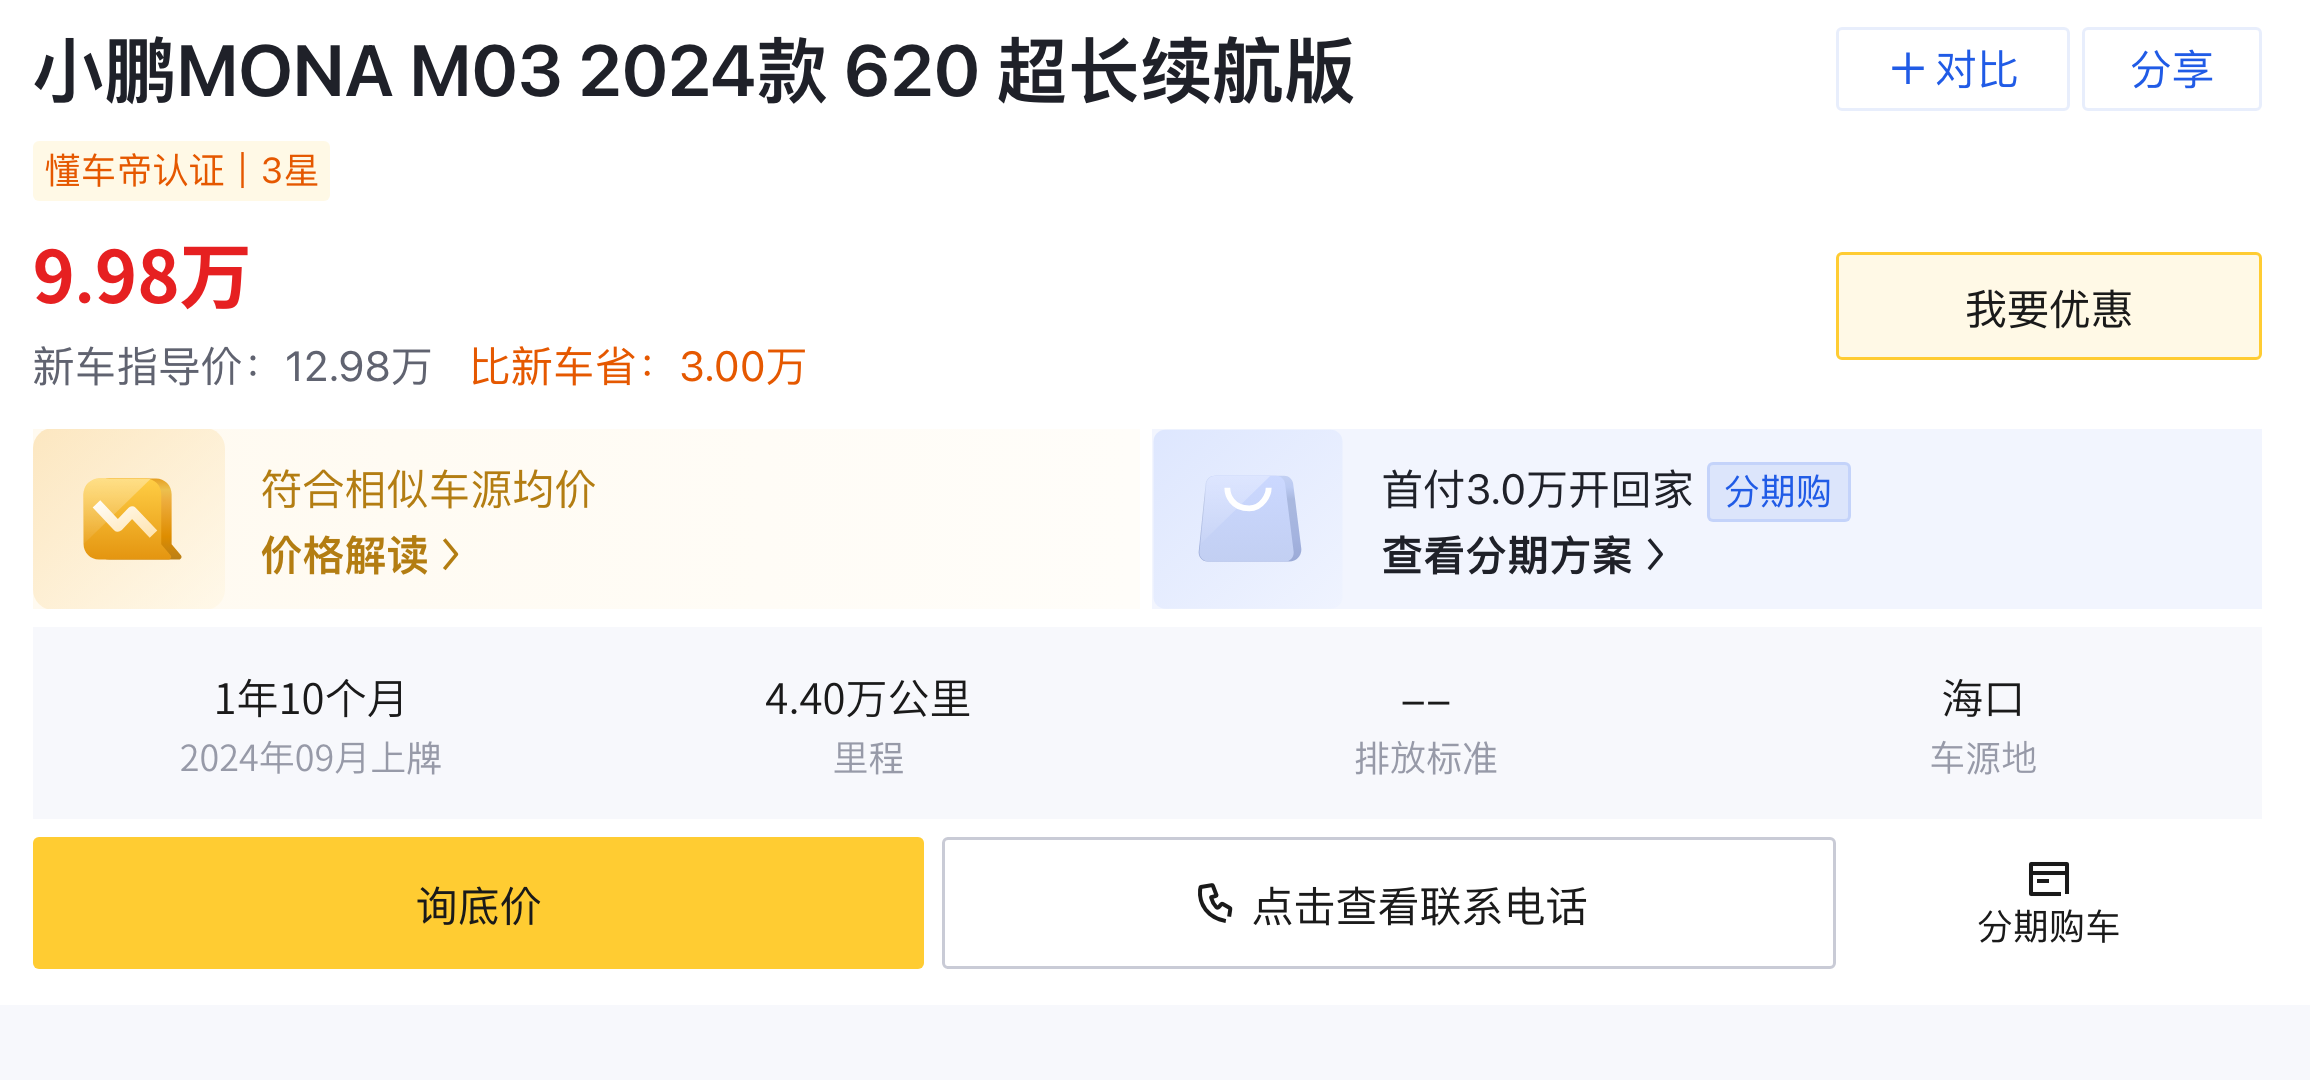
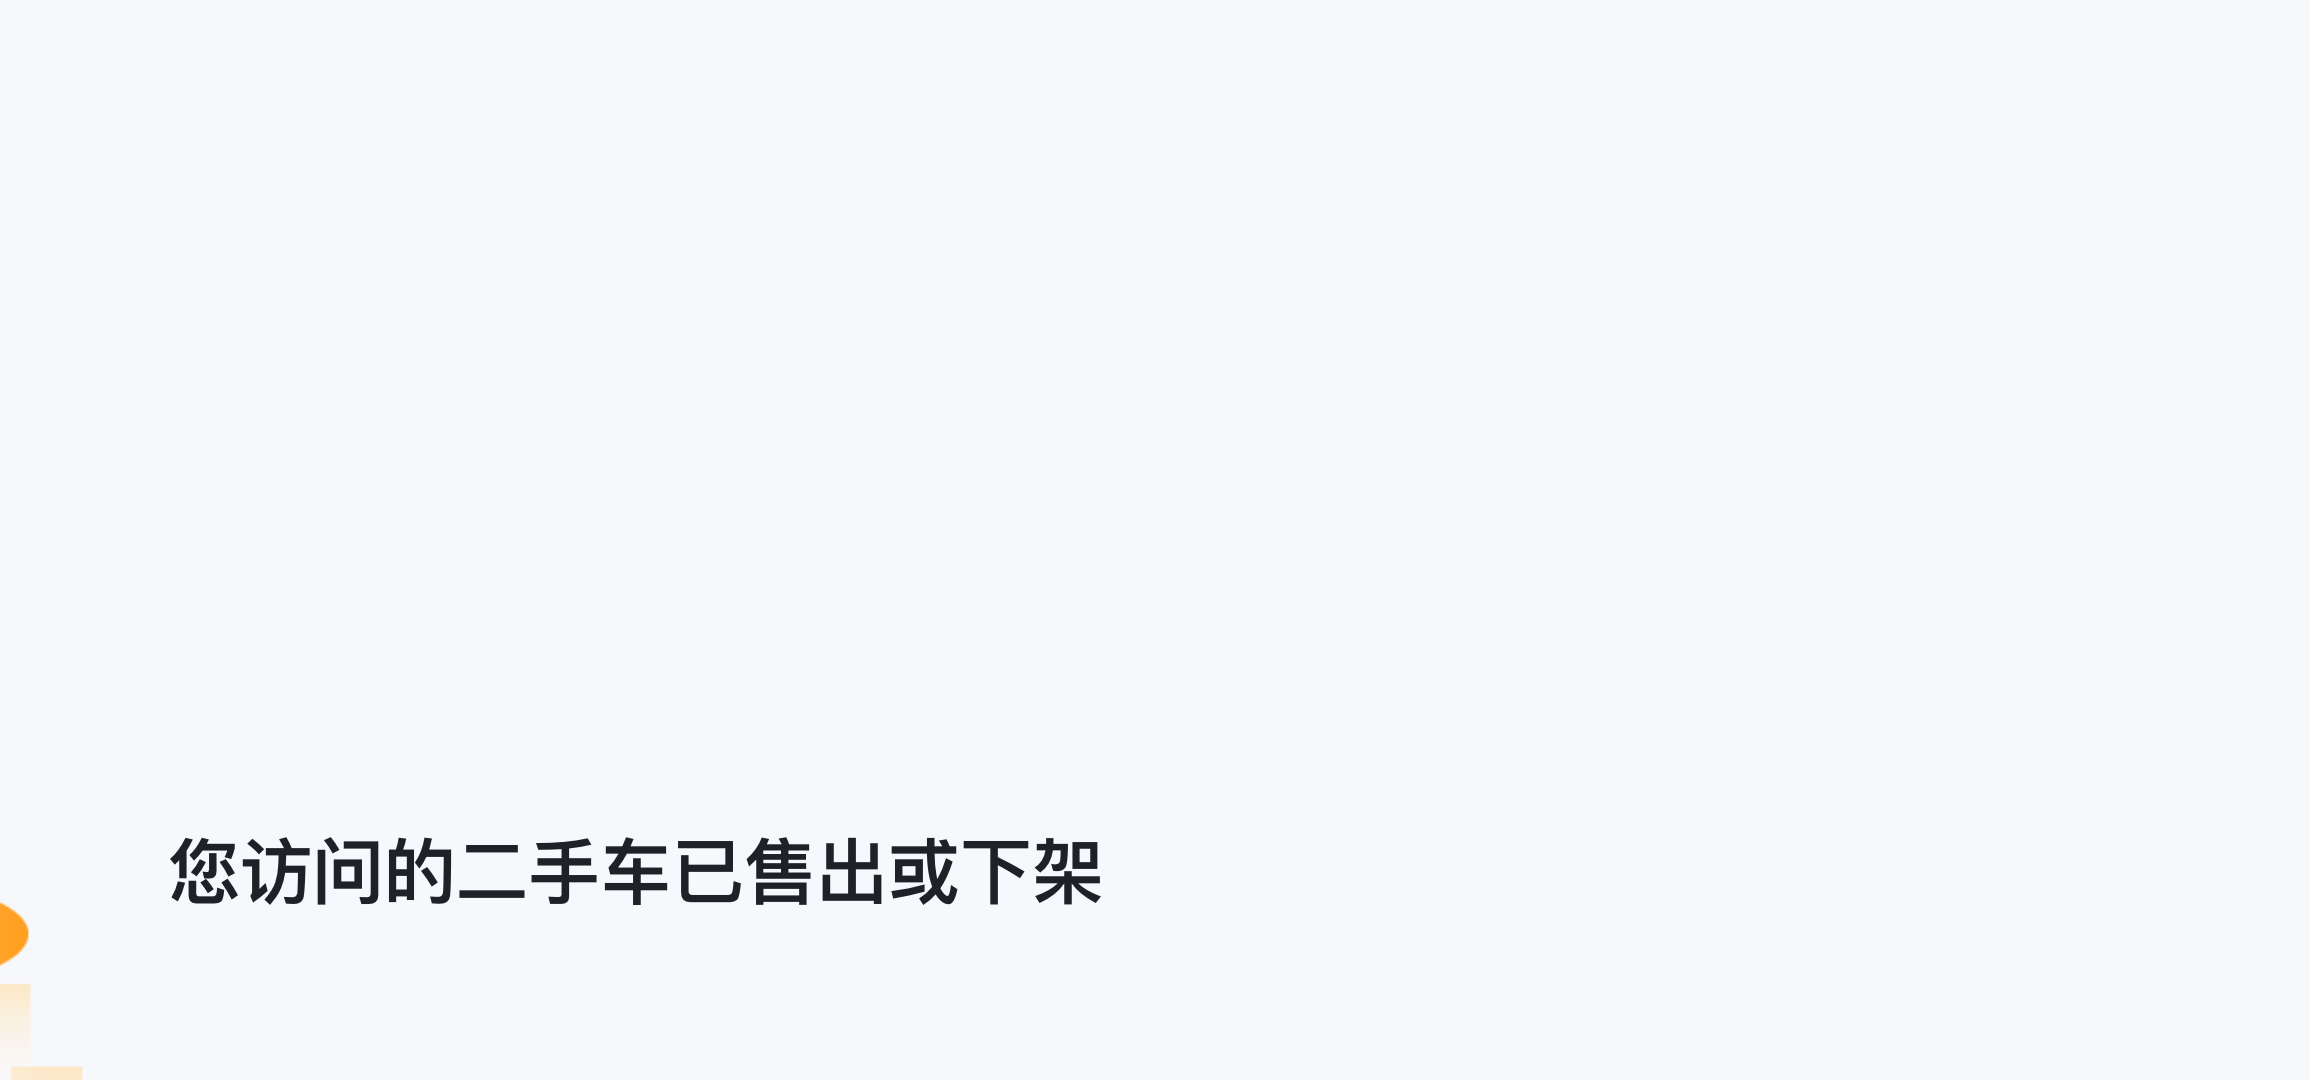
feat: 瓜子数据功能搞定一版

diff --git a/src/modules/crawler/adapters/guazi.adapter.ts b/src/modules/crawler/adapters/guazi.adapter.ts
@@ -1,22 +1,168 @@
-import { Injectable } from '@nestjs/common';
+import { Injectable, Logger } from '@nestjs/common';
+import * as fs from 'node:fs';
+import * as path from 'node:path';
+import { chromium, type BrowserContextOptions, type Page } from 'playwright';
 import { RawListing } from '../../../common/types/listing.types';
 import { CrawlerAdapter } from './crawler-adapter';
 
 @Injectable()
 export class GuaziAdapter implements CrawlerAdapter {
   readonly platform = '瓜子';
+  private readonly logger = new Logger(GuaziAdapter.name);
+  private readonly listUrl = 'https://www.guazi.com/sh/xpqc/xiaopengmona_m03/';
+  private readonly statePath = path.join(process.cwd(), 'state', 'guazi.json');
 
   async crawl(): Promise<RawListing[]> {
-    return [
-      {
-        platform: this.platform,
-        model: '小鹏 M03 620 Max',
-        priceWan: 10.2,
-        sourceLocation: '海口',
-        mileageKm: 12000,
-        registerDate: '2024-08',
-        hasMajorAccident: false,
-      },
-    ];
+    let browser: Awaited<ReturnType<typeof chromium.launch>> | null = null;
+    try {
+      browser = await chromium.launch({ headless: true });
+      const contextOptions: BrowserContextOptions = {
+        viewport: { width: 1920, height: 1080 },
+        userAgent:
+          'Mozilla/5.0 (Macintosh; Intel Mac OS X 10_15_7) AppleWebKit/537.36 (KHTML, like Gecko) Chrome/126.0.0.0 Safari/537.36',
+      };
+
+      if (fs.existsSync(this.statePath)) {
+        contextOptions.storageState = this.statePath;
+      } else {
+        this.logger.warn(`Guazi login state file not found at ${this.statePath}. Run login bootstrap if needed.`);
+      }
+
+      const context = await browser.newContext(contextOptions);
+      const page = await context.newPage();
+      await page.goto(this.listUrl, { waitUntil: 'domcontentloaded', timeout: 60000 });
+      await page.waitForTimeout(2500);
+
+      if (await this.requiresManualVerification(page)) {
+        this.logger.warn('Guazi login/captcha detected, skip this platform in current run.');
+        return [];
+      }
+
+      const items = await page.$$eval('.car-list-box .car-box .car-item', (nodes) =>
+        nodes.map((node) => {
+          const anchor = node.querySelector<HTMLAnchorElement>('a.car-item-img');
+          const title = node.querySelector('.car-item-info-title')?.textContent?.trim() ?? '';
+          const desc = node.querySelector('.car-item-info-desc')?.textContent?.trim() ?? '';
+          const price =
+            node.querySelector('.car-item-info-price-value')?.textContent?.trim() ??
+            node.querySelector('.car-item-info-price-now')?.textContent?.trim() ??
+            '';
+          const tags = Array.from(node.querySelectorAll('.car-item-info-tag span'))
+            .map((el) => el.textContent?.trim() ?? '')
+            .filter(Boolean);
+
+          return {
+            title,
+            desc,
+            price,
+            tags,
+            href: anchor?.getAttribute('href') ?? '',
+          };
+        }),
+      );
+
+      const listings = items
+        .map((item) => this.toRawListing(item))
+        .filter((item): item is RawListing => Boolean(item));
+
+      this.logger.log(`Guazi parsed ${listings.length} listings from list page.`);
+      return listings;
+    } catch (error) {
+      this.logger.warn(`Guazi crawl failed and will be skipped: ${String(error)}`);
+      return [];
+    } finally {
+      if (browser) {
+        await browser.close().catch(() => undefined);
+      }
+    }
+  }
+
+  private async requiresManualVerification(page: Page): Promise<boolean> {
+    const html = await page.content();
+    const lower = html.toLowerCase();
+    const keywordHit = ''
+      // lower.includes('验证码') 
+      // ||
+      // lower.includes('captcha') ||
+      // lower.includes('滑块') ||
+      // lower.includes('请先登录');
+    if (keywordHit) return true;
+
+    const loginButtonVisible = await page
+      .locator('text=/登录|立即登录|去登录/')
+      .first()
+      .isVisible()
+      .catch(() => false);
+    return loginButtonVisible;
+  }
+
+  private toRawListing(item: {
+    title: string;
+    desc: string;
+    price: string;
+    tags: string[];
+    href: string;
+  }): RawListing | null {
+    const modelRaw = item.title.trim();
+    const model = modelRaw.replace(/\s+/g, '');
+    if (!model) return null;
+
+    const priceWan = this.extractPriceWan(item.price);
+    const sourceLocation = this.extractSourceLocation(item.desc);
+    const mileageKm = this.extractMileageKm(item.desc);
+    const registerDate = this.extractRegisterDate(item.desc);
+
+    const tagText = item.tags.join('|');
+    const hasMajorAccident = /事故|火烧|泡水|重大事故/.test(tagText);
+    const needsReview = priceWan <= 0 || mileageKm <= 0 || !registerDate;
+
+    return {
+      platform: this.platform,
+      model,
+      modelRaw,
+      priceWan,
+      sourceLocation,
+      mileageKm,
+      registerDate,
+      hasMajorAccident,
+      url: item.href.startsWith('http') ? item.href : `https://www.guazi.com${item.href}`,
+      rawText: JSON.stringify(item),
+      needsReview,
+    };
+  }
+
+  private extractPriceWan(input: string): number {
+    const compact = (input || '').replace(/\s+/g, '');
+    const m = compact.match(/(\d+(?:\.\d+)?)/);
+    return m ? Number(m[1]) : 0;
+  }
+
+  private extractMileageKm(input: string): number {
+    const compact = (input || '').replace(/\s+/g, '');
+    const wan = compact.match(/(\d+(?:\.\d+)?)万公里/);
+    if (wan) return Math.round(Number(wan[1]) * 10000);
+    const km = compact.match(/(\d+(?:\.\d+)?)公里/);
+    return km ? Math.round(Number(km[1])) : 0;
+  }
+
+  private extractRegisterDate(input: string): string {
+    const compact = (input || '').replace(/\s+/g, '');
+    const ym = compact.match(/(20\d{2})年(\d{1,2})月/);
+    if (ym) return `${ym[1]}-${String(Number(ym[2])).padStart(2, '0')}`;
+    const y = compact.match(/(20\d{2})年/);
+    if (y) return `${y[1]}-01`;
+    return '2024-01';
+  }
+
+  private extractSourceLocation(input: string): string {
+    const text = (input || '').trim();
+    const parts = text
+      .split('|')
+      .map((v) => v.trim())
+      .filter(Boolean);
+    if (parts.length >= 3) return parts[2];
+
+    const cityMatch = text.match(/(北京|上海|广州|深圳|苏州|杭州|南京|海口|天津|重庆|武汉|成都|西安|长沙|郑州|青岛|宁波|无锡|佛山|东莞)/);
+    return cityMatch?.[1] ?? '上海';
   }
 }

diff --git a/src/scripts/guazi-login.bootstrap.ts b/src/scripts/guazi-login.bootstrap.ts
@@ -1,0 +1,35 @@
+import * as fs from 'node:fs/promises';
+import * as path from 'node:path';
+import { chromium } from 'playwright';
+
+async function bootstrap() {
+  const stateDir = path.join(process.cwd(), 'state');
+  const statePath = path.join(stateDir, 'guazi.json');
+  const targetUrl = 'https://www.guazi.com/sh/xpqc/xiaopengmona_m03/';
+
+  await fs.mkdir(stateDir, { recursive: true });
+
+  const browser = await chromium.launch({ headless: false, slowMo: 50 });
+  const context = await browser.newContext({ viewport: { width: 1440, height: 900 } });
+
+  try {
+    const page = await context.newPage();
+    await page.goto(targetUrl, { waitUntil: 'domcontentloaded', timeout: 60000 });
+
+    console.log('Please complete guazi login/captcha manually in opened browser.');
+    console.log('After login succeeds, press Enter here to save state...');
+
+    process.stdin.setEncoding('utf8');
+    await new Promise<void>((resolve) => {
+      process.stdin.once('data', () => resolve());
+    });
+
+    await context.storageState({ path: statePath });
+    console.log(`Saved guazi storage state to: ${statePath}`);
+  } finally {
+    await context.close();
+    await browser.close();
+  }
+}
+
+void bootstrap();

diff --git a/src/modules/crawler/adapters/dongchedi.adapter.ts b/src/modules/crawler/adapters/dongchedi.adapter.ts
@@ -61,6 +61,11 @@ export class DongchediAdapter implements CrawlerAdapter {
         await page.goto(url, { waitUntil: 'domcontentloaded', timeout: 60000 });
         await page.waitForTimeout(2500);
 
+        if (await this.isListingUnavailable(page)) {
+          this.logger.warn(`Dongchedi listing unavailable (已售出或下架), skip url: ${url}`);
+          continue;
+        }
+
         if (await this.requiresManualVerification(page)) {
           this.logger.warn('Dongchedi login/captcha detected, skip this platform in current run.');
           break;
@@ -124,6 +129,12 @@ export class DongchediAdapter implements CrawlerAdapter {
       .isVisible()
       .catch(() => false);
     return loginButtonVisible;
+  }
+
+  private async isListingUnavailable(page: Page): Promise<boolean> {
+    const html = await page.content();
+    const text = html.replace(/\s+/g, '');
+    return text.includes('您访问的二手车已售出或下架') || text.includes('已售出或下架');
   }
 
   private async captureBaseScreenshot(page: Page, tag: string): Promise<string> {
